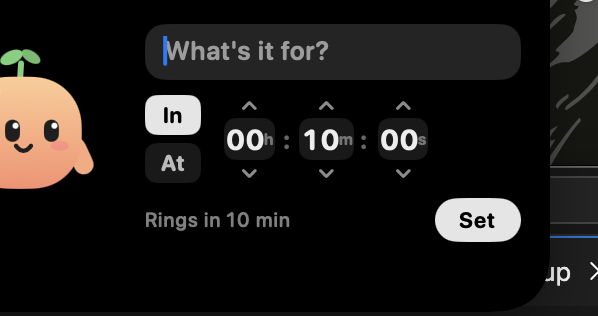
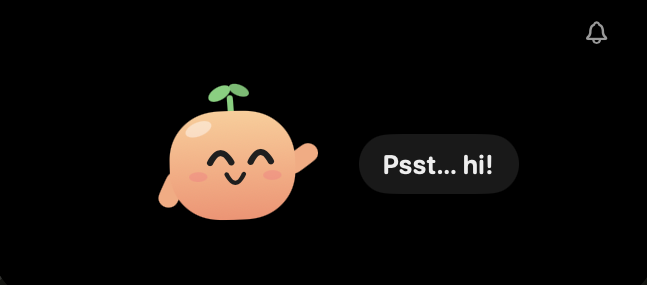
Use Pip waving as the README screenshot

diff --git a/README.md b/README.md
@@ -2,7 +2,7 @@
 
 Pip, a tiny peach with a sprout, lives in your MacBook's notch. It mostly keeps you company, and it can hold on to a few reminders for you.
 
-<p align="center"><img src="docs/screenshot.png" alt="Pip in the open notch, next to the reminder editor" width="480"></p>
+<p align="center"><img src="docs/screenshot.png" alt="Pip waving hello from the open notch" width="480"></p>
 
 - Hover the notch: it grows, Pip pops up and waves hello.
 - Move your mouse: Pip's eyes follow you.
